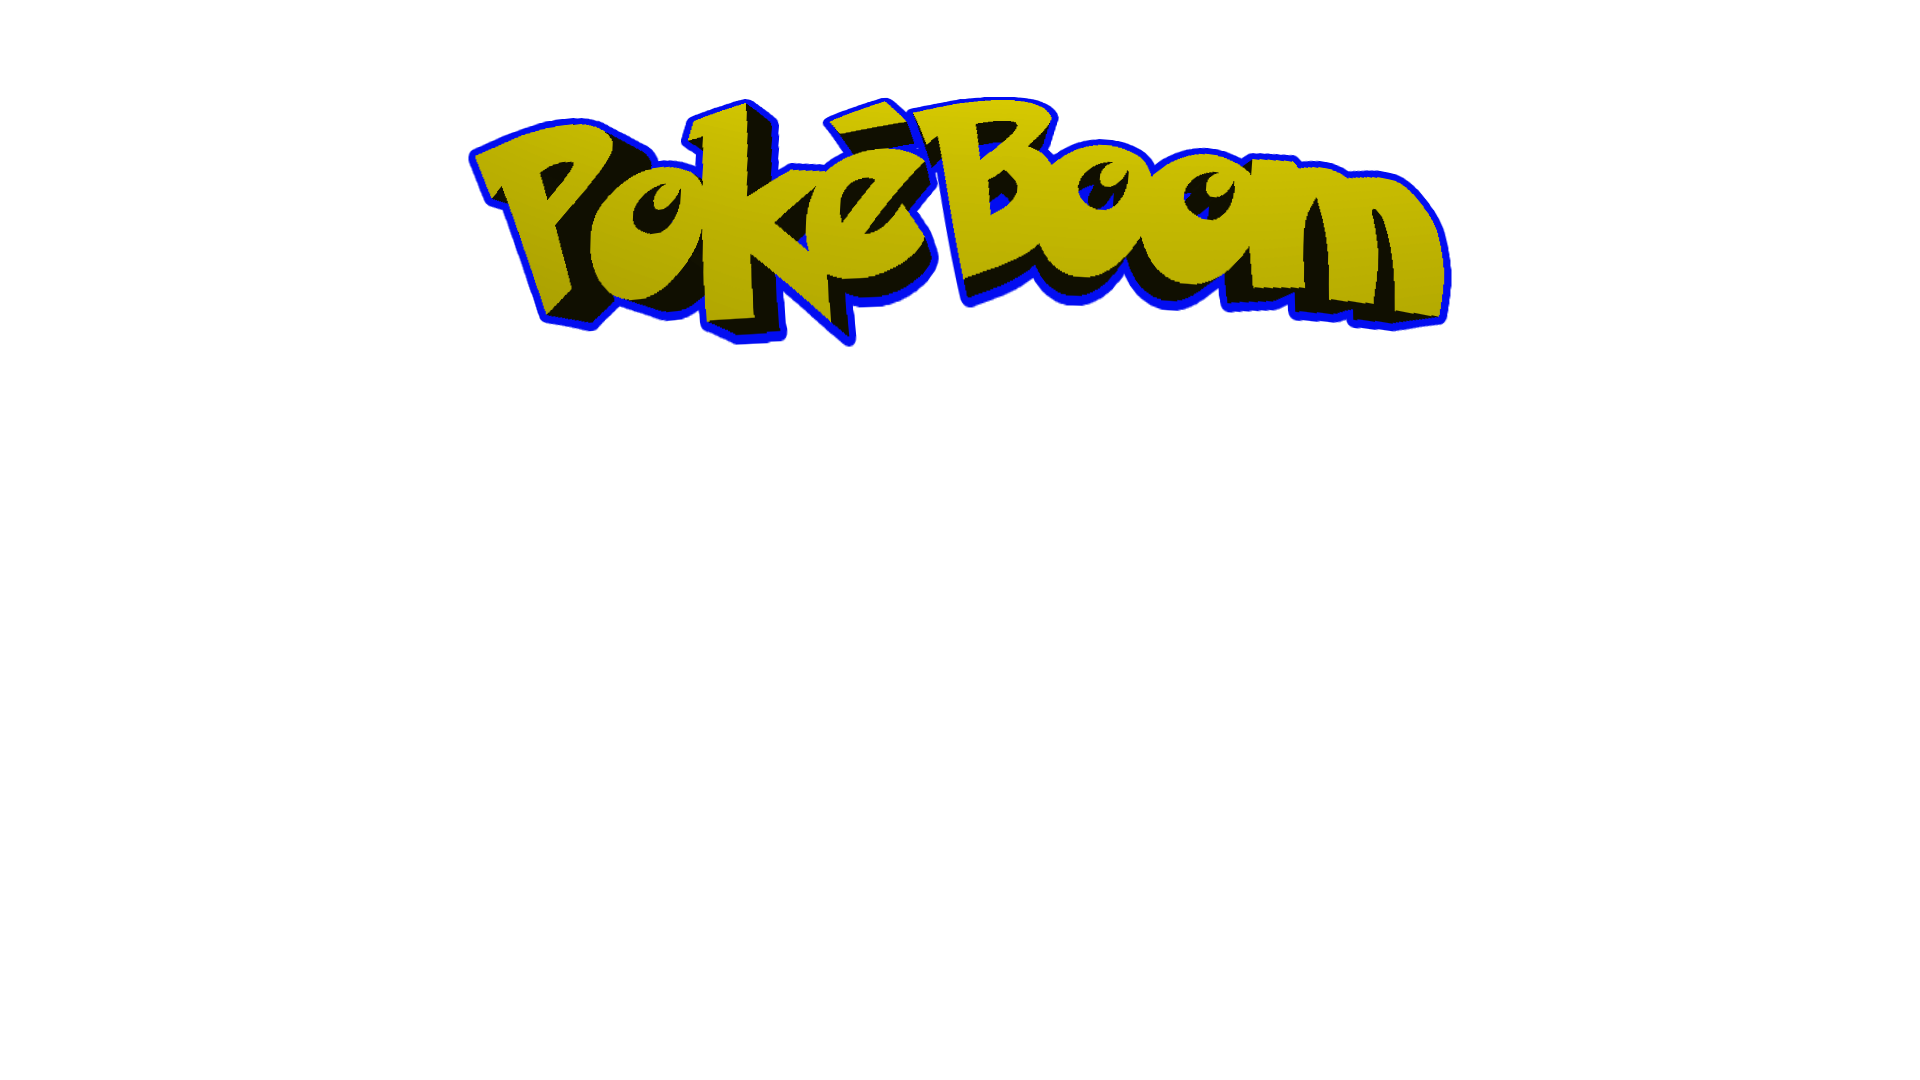
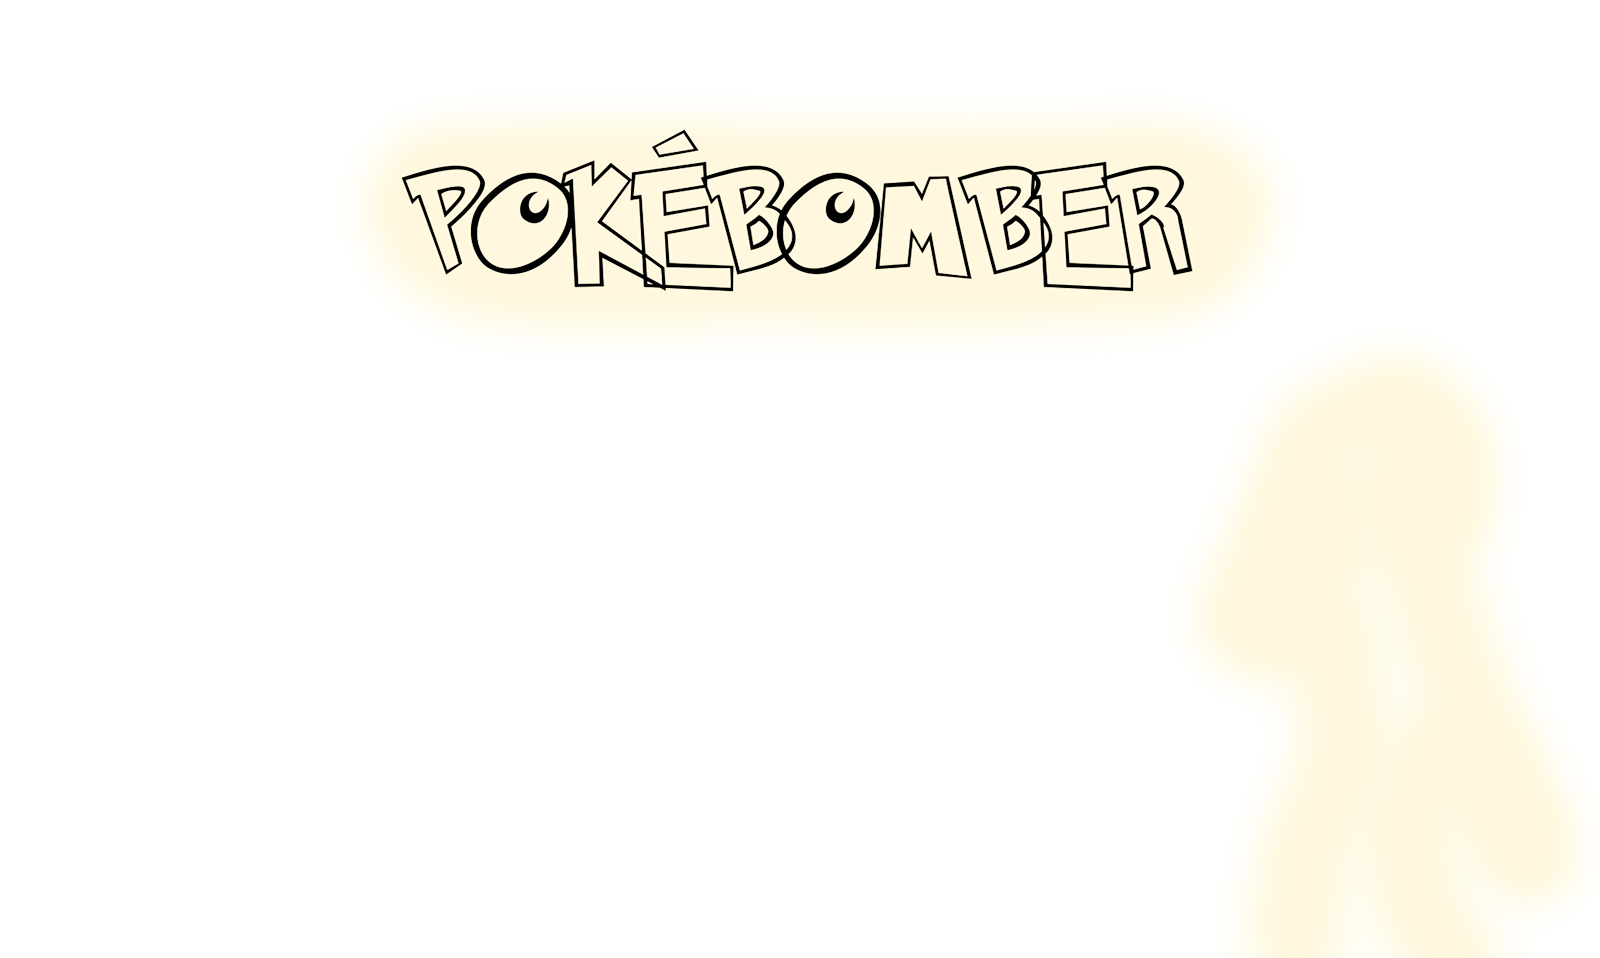
Update (Graphics MainMenu)

Changed region(s): [[0.2188, 0.0908, 0.8125, 0.333], [0.75, 0.3633, 1.0, 1.0]]

diff --git a/Client/client/src/main/java/fr/bomberman/gui/GuiMainMenu.java b/Client/client/src/main/java/fr/bomberman/gui/GuiMainMenu.java
@@ -15,6 +15,7 @@ public class GuiMainMenu extends Container implements MouseListener, MouseMotion
 	// Image
 	private BufferedImage background = Assets.getImage("title_background.png");
 	private BufferedImage title = Assets.getImage("title_titletext.png");
+	private BufferedImage character = Assets.getImage("title_character.png");
 	private BufferedImage one_player = Assets.getImage("one_player.png");
 	private BufferedImage close_texture = Assets.getImage("close.jpg");
 	private BufferedImage resume_texture = Assets.getImage("resume.png");
@@ -36,6 +37,7 @@ public class GuiMainMenu extends Container implements MouseListener, MouseMotion
 	public void paint(Graphics g) {
 		g.drawImage(background, 0, 0, getWidth(), getHeight(), null);
 		g.drawImage(title, 0, 0, getWidth(), getHeight(), null);
+		g.drawImage(character, 0, 0, getWidth(), getHeight(), null);
 		play.paint(g);
 		close.paint(g);
 		if(GuiIngame.instance != null)
